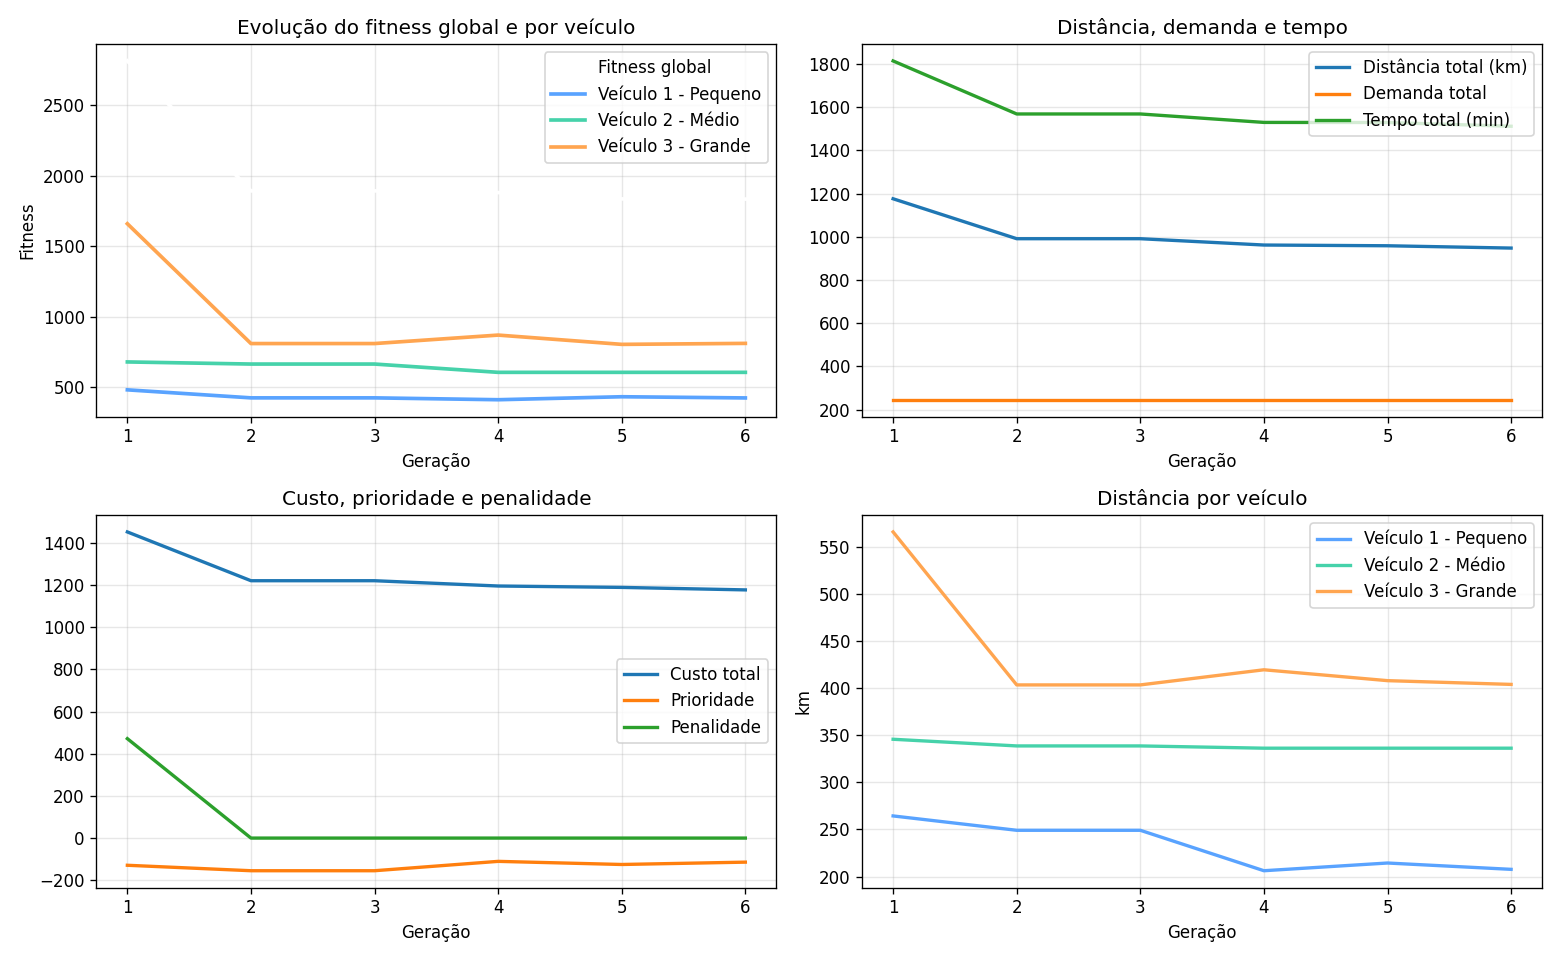
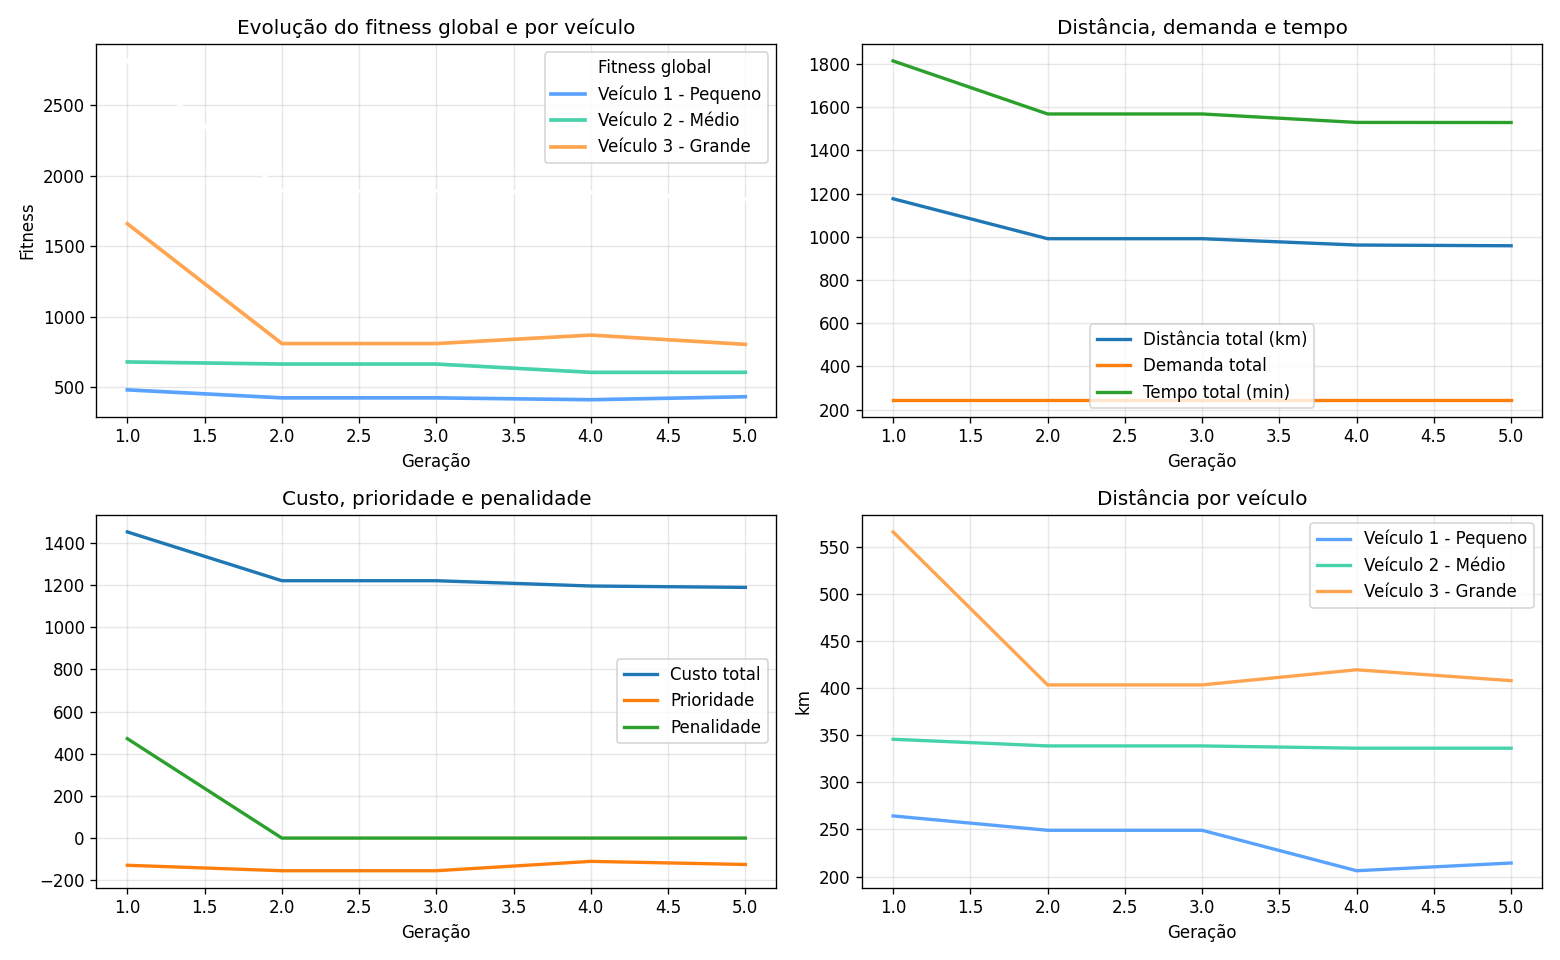
Ajuste final de Finess - Mapa

diff --git a/draw_functions.py b/draw_functions.py
@@ -107,7 +107,14 @@ def draw_cities(
             pygame.draw.circle(screen, (220, 60, 60), position, node_radius + 2, 1)
 
         if show_labels:
-            draw_text(screen, city['name'], (230, 230, 230), (position[0] + 6, position[1] - 8), font_size=11)
+            # Criar rótulo com nome e indicador de criticidade
+            label = city['name']
+            if city['priority'] == 'critica':
+                label += ' [C]'
+            
+            # Definir cor baseada na criticidade
+            label_color = (255, 120, 120) if city['priority'] == 'critica' else (230, 230, 230)
+            draw_text(screen, label, label_color, (position[0] + 6, position[1] - 8), font_size=10)
 
 
 def draw_paths(

diff --git a/tsp.py b/tsp.py
@@ -619,7 +619,7 @@ def main() -> None:
             best_points = route_to_screen_points(result['best_route'], depot)
             draw_paths(screen, best_points, result['vehicle']['color'], width=4, close_path=False)
 
-        draw_cities(screen, all_cities, YELLOW, NODE_RADIUS, show_labels=False)
+        draw_cities(screen, all_cities, YELLOW, NODE_RADIUS, show_labels=True)
 
         draw_text(screen, f'Geração: {generation}/{N_GENERATIONS}', WHITE, (RIGHT_PANEL_X, 20), font_size=22, bold=True)
         draw_text(screen, f'Fitness global: {global_fitness:.2f}', WHITE, (RIGHT_PANEL_X, 52), font_size=18)